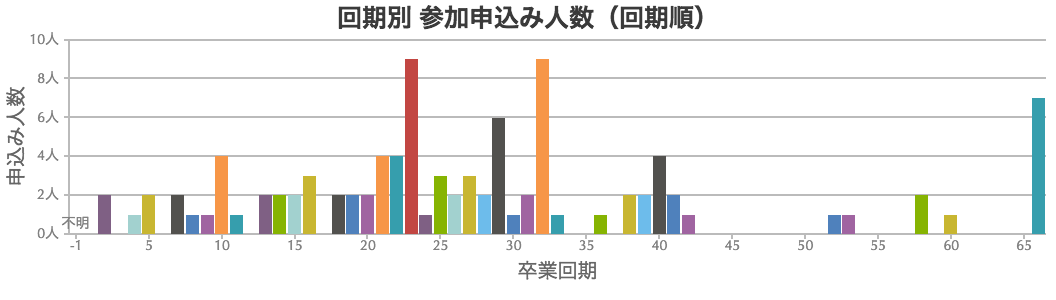
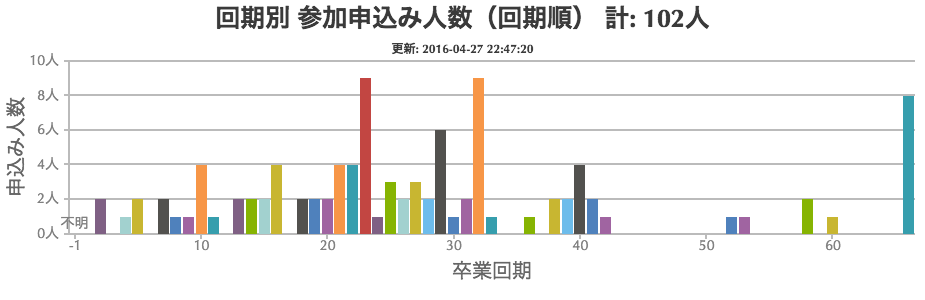
総人数と、生成の際に参照したExcelファイルの日付を出力するようにした

diff --git a/trend/data.js b/trend/data.js
@@ -1,2 +1,4 @@
 var dataPlot1 =[{ label: -1, y: 0, indexLabel: "不明" },{ label: 1, y: 0 },{ label: 2, y: 2 },{ label: 3, y: 0 },{ label: 4, y: 1 },{ label: 5, y: 2 },{ label: 6, y: 0 },{ label: 7, y: 2 },{ label: 8, y: 1 },{ label: 9, y: 1 },{ label: 10, y: 4 },{ label: 11, y: 1 },{ label: 12, y: 0 },{ label: 13, y: 2 },{ label: 14, y: 2 },{ label: 15, y: 2 },{ label: 16, y: 4 },{ label: 17, y: 0 },{ label: 18, y: 2 },{ label: 19, y: 2 },{ label: 20, y: 2 },{ label: 21, y: 4 },{ label: 22, y: 4 },{ label: 23, y: 9 },{ label: 24, y: 1 },{ label: 25, y: 3 },{ label: 26, y: 2 },{ label: 27, y: 3 },{ label: 28, y: 2 },{ label: 29, y: 6 },{ label: 30, y: 1 },{ label: 31, y: 2 },{ label: 32, y: 9 },{ label: 33, y: 1 },{ label: 34, y: 0 },{ label: 35, y: 0 },{ label: 36, y: 1 },{ label: 37, y: 0 },{ label: 38, y: 2 },{ label: 39, y: 2 },{ label: 40, y: 4 },{ label: 41, y: 2 },{ label: 42, y: 1 },{ label: 43, y: 0 },{ label: 44, y: 0 },{ label: 45, y: 0 },{ label: 46, y: 0 },{ label: 47, y: 0 },{ label: 48, y: 0 },{ label: 49, y: 0 },{ label: 50, y: 0 },{ label: 51, y: 0 },{ label: 52, y: 1 },{ label: 53, y: 1 },{ label: 54, y: 0 },{ label: 55, y: 0 },{ label: 56, y: 0 },{ label: 57, y: 0 },{ label: 58, y: 2 },{ label: 59, y: 0 },{ label: 60, y: 1 },{ label: 61, y: 0 },{ label: 62, y: 0 },{ label: 63, y: 0 },{ label: 64, y: 0 },{ label: 65, y: 0 },{ label: 66, y: 8 },];
 var dataPlot2 =[{ label: 23, y: 9 },{ label: 32, y: 9 },{ label: 66, y: 8 },{ label: 29, y: 6 },{ label: 10, y: 4 },{ label: 16, y: 4 },{ label: 21, y: 4 },{ label: 22, y: 4 },{ label: 40, y: 4 },{ label: 25, y: 3 },{ label: 27, y: 3 },{ label: 2, y: 2 },{ label: 5, y: 2 },{ label: 7, y: 2 },{ label: 13, y: 2 },{ label: 14, y: 2 },{ label: 15, y: 2 },{ label: 18, y: 2 },{ label: 19, y: 2 },{ label: 20, y: 2 },{ label: 26, y: 2 },{ label: 28, y: 2 },{ label: 31, y: 2 },{ label: 38, y: 2 },{ label: 39, y: 2 },{ label: 41, y: 2 },{ label: 58, y: 2 },{ label: 4, y: 1 },{ label: 8, y: 1 },{ label: 9, y: 1 },{ label: 11, y: 1 },{ label: 24, y: 1 },{ label: 30, y: 1 },{ label: 33, y: 1 },{ label: 36, y: 1 },{ label: 42, y: 1 },{ label: 52, y: 1 },{ label: 53, y: 1 },{ label: 60, y: 1 },{ label: 1, y: 0 },{ label: 3, y: 0 },{ label: 6, y: 0 },{ label: 12, y: 0 },{ label: 17, y: 0 },{ label: 34, y: 0 },{ label: 35, y: 0 },{ label: 37, y: 0 },{ label: 43, y: 0 },{ label: 44, y: 0 },{ label: 45, y: 0 },{ label: 46, y: 0 },{ label: 47, y: 0 },{ label: 48, y: 0 },{ label: 49, y: 0 },{ label: 50, y: 0 },{ label: 51, y: 0 },{ label: 54, y: 0 },{ label: 55, y: 0 },{ label: 56, y: 0 },{ label: 57, y: 0 },{ label: 59, y: 0 },{ label: 61, y: 0 },{ label: 62, y: 0 },{ label: 63, y: 0 },{ label: 64, y: 0 },{ label: 65, y: 0 },{ label: -1, y: 0, indexLabel: "不明" },];
+var last_modified = "2016-04-27 22:47:20"
+var total = 102

diff --git a/trend/make_chart.js b/trend/make_chart.js
@@ -2,8 +2,12 @@
 window.onload = function () {
 	var chart1 = new CanvasJS.Chart("entries_chart_1", {
 		title:{
-			text: "回期別 参加申込み人数（回期順）"
+			text: "回期別 参加申込み人数（回期順） 計: " + total + "人"
 		},
+		subtitles:[
+		{
+			text: "更新: " + last_modified
+		}],
 		data: [
 			{
 				type: 'column',
@@ -23,8 +27,12 @@ window.onload = function () {
 
 	var chart2 = new CanvasJS.Chart("entries_chart_2", {
 		title:{
-			text: "回期別 参加申込み人数（申し込み人数順）"
+			text: "回期別 参加申込み人数（申込み人数順） 計: " + total + "人"
 		},
+		subtitles:[
+		{
+			text: "更新: " + last_modified
+		}],
 		data: [
 			{
 				type: 'column',

diff --git a/trend/make_entries_chart.py b/trend/make_entries_chart.py
@@ -1,48 +1,61 @@
 # -*- coding: utf-8 -*-
-import sys, codecs
+import sys, codecs, datetime, os
 from openpyxl import load_workbook
 
-datapoints = {}
-datapoints[-1] = 0
-for i in range(1,67):
-    datapoints[i] = 0
+def main():
+    datapoints = {}
+    datapoints[-1] = 0
+    for i in range(1,67):
+        datapoints[i] = 0
 
-book = load_workbook(filename=sys.argv[1])
-sheet = book[u'参加者']
-maxrow = sheet.max_row
-rows = sheet.iter_rows('H2:H'+str(maxrow))
-for row in rows:
-    for cell in row:
-        if cell.value == 'None':
-            datapoints[-1] += 1
+    stat = os.stat(sys.argv[1])
+    dt = datetime.datetime.fromtimestamp(stat.st_mtime)
+    last_modified = "\nvar last_modified = \"%s\"\n" % dt.strftime("%Y-%m-%d %H:%M:%S")
+
+    book = load_workbook(filename=sys.argv[1])
+    sheet = book[u'参加者']
+    maxrow = sheet.max_row
+    entries = 0
+    rows = sheet.iter_rows('H2:H'+str(maxrow))
+    for row in rows:
+        for cell in row:
+            if cell.value == 'None':
+                datapoints[-1] += 1
+            else:
+                datapoints[cell.value] += 1
+            entries += 1
+
+    total = "var total = %d\n" % entries
+
+    dataPlot = "var dataPlot1 =["
+
+    for k,v in sorted(datapoints.items(), key=lambda x: x[0]):
+        if k == -1 :
+            data = "{ label: %d, y: %d, indexLabel: " % (k, v)
+            data += u"\"不明\" },"
         else:
-            datapoints[cell.value] += 1
+            data = "{ label: %d, y: %d }," % (k, v)
+        dataPlot += data
 
+    dataPlot += "];\n"
 
-dataPlot = "var dataPlot1 =["
+    dataPlot += "var dataPlot2 =["
 
-for k,v in sorted(datapoints.items(), key=lambda x: x[0]):
-    if k == -1 :
-        data = "{ label: %d, y: %d, indexLabel: " % (k, v)
-        data += u"\"不明\" },"
-    else:
-        data = "{ label: %d, y: %d }," % (k, v)
-    dataPlot += data
+    for k,v in sorted(datapoints.items(), key=lambda x: x[1], reverse=True):
+        if k == -1 :
+            data = "{ label: %d, y: %d, indexLabel: " % (k, v)
+            data += u"\"不明\" },"
+        else:
+            data = "{ label: %d, y: %d }," % (k, v)
+        dataPlot += data
 
-dataPlot += "];\n"
+    dataPlot += "];"
 
-dataPlot += "var dataPlot2 =["
+    f = codecs.open('data.js', 'w', 'utf-8')
+    f.write(dataPlot)
+    f.write(last_modified)
+    f.write(total)
+    f.close()
 
-for k,v in sorted(datapoints.items(), key=lambda x: x[1], reverse=True):
-    if k == -1 :
-        data = "{ label: %d, y: %d, indexLabel: " % (k, v)
-        data += u"\"不明\" },"
-    else:
-        data = "{ label: %d, y: %d }," % (k, v)
-    dataPlot += data
-
-dataPlot += "];"
-
-f = codecs.open('data.js', 'w', 'utf-8')
-f.write(dataPlot)
-f.close()
+if __name__ == "__main__":
+    main()
